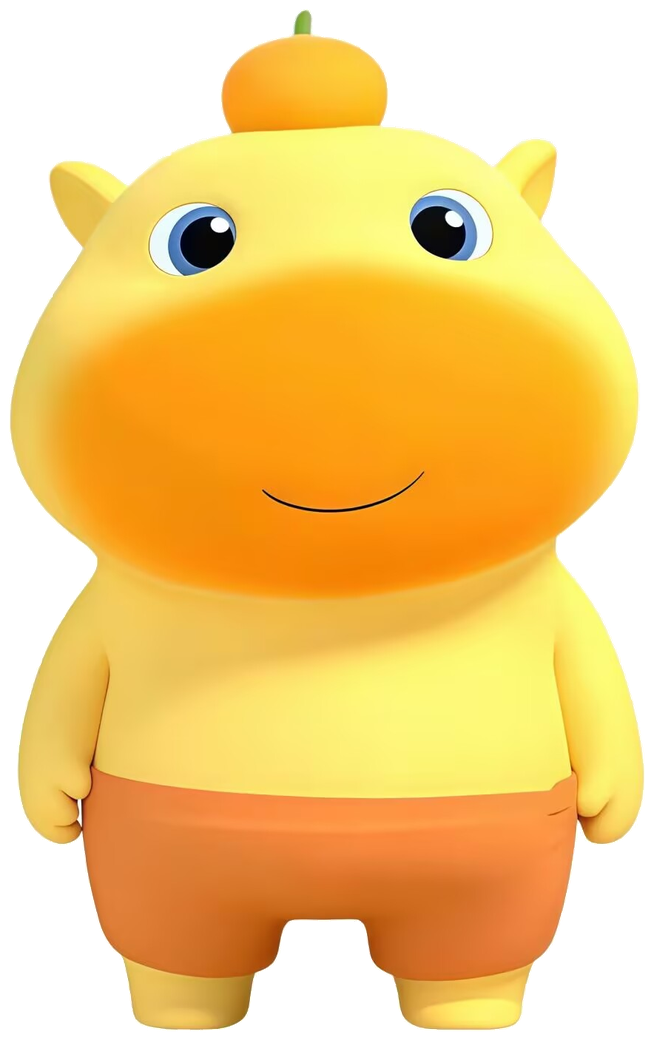
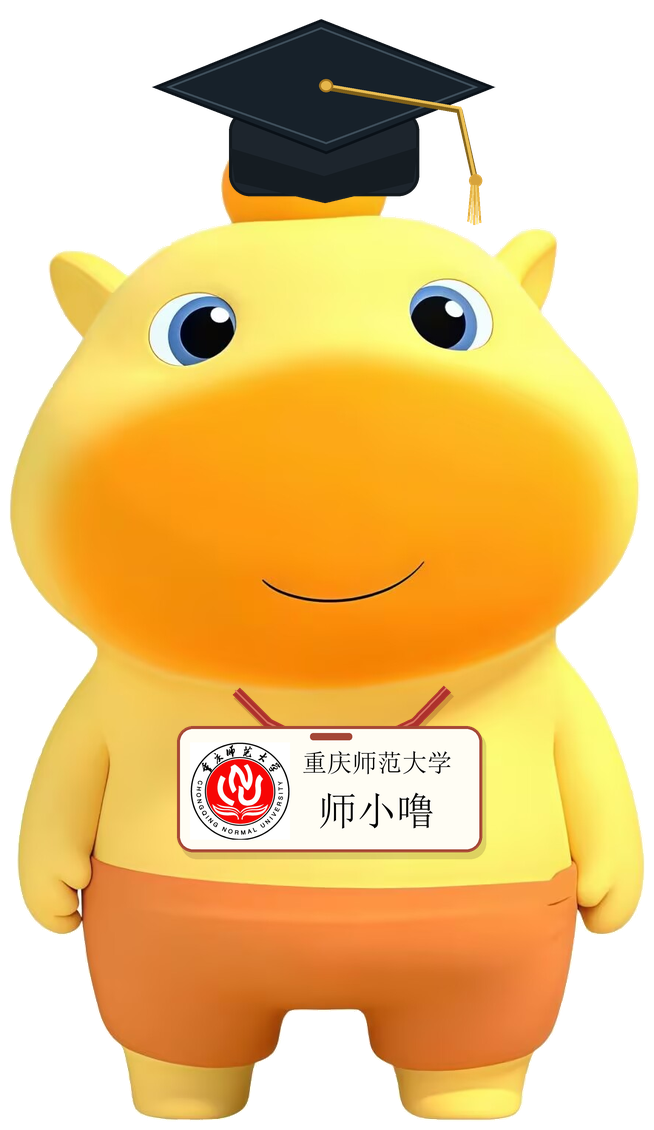
Give Shi Xiaolu a university badge doctoral cap and deeper voice

diff --git a/public/lulu.js b/public/lulu.js
@@ -1,22 +1,22 @@
 const SECTIONS=['overview','learn','speak','write','path','memory'];
 const LOCALES={zh:'zh-CN',en:'en-US',es:'es-ES',fr:'fr-FR',de:'de-DE',ja:'ja-JP',ko:'ko-KR'};
 const COPY={
- zh:{name:'噜噜',open:'找噜噜帮忙',close:'收起噜噜',title:'噜噜陪你学中文',hello:'你好，我是噜噜！想了解哪个功能，或和我聊聊你的学习？',sections:['学习首页','视频课堂','口语练习','互动写作','学习计划','学习记忆'],intro:'介绍当前功能',tour:'带我参观',previous:'上一站',next:'下一站',finish:'结束参观',send:'发送',placeholder:'问问噜噜，或试着写一句中文…',input:'和噜噜说点什么',thinking:'噜噜正在准备回答…',voice:'朗读回答',voiceNote:'卡通音色 · 使用设备语音',play:'再听一遍',stop:'停止朗读',mic:'用语音输入',listening:'正在听，请说话…',micUnavailable:'当前浏览器暂不支持语音输入，请直接打字。',micError:'没有听清或未获得麦克风权限，请重试或打字。',noVoice:'当前设备没有此语言的语音，仍可阅读文字。',speechError:'朗读暂未完成，可再次点击播放。',error:'噜噜暂时没有连上伴学服务，请稍后重试。',retry:'重试',languageChanged:'语言已切换，可以重新介绍或继续聊天。',viewChanged:'想了解这个页面？点击“介绍当前功能”。',you:'你',actions:'接下来可以',current:'当前功能',tourStep:'参观进度',empty:'先写点什么，再发给噜噜。'},
- en:{name:'Lulu',open:'Ask Lulu',close:'Minimize Lulu',title:'Learn Chinese with Lulu',hello:'Hi, I’m Lulu! Which feature would you like to explore, or what are you learning?',sections:['Overview','Video lessons','Speaking studio','Writing workshop','Learning plan','Learning memory'],intro:'Explain this feature',tour:'Show me around',previous:'Previous',next:'Next stop',finish:'Finish tour',send:'Send',placeholder:'Ask Lulu, or try a sentence in Chinese…',input:'Talk with Lulu',thinking:'Lulu is preparing a reply…',voice:'Read replies aloud',voiceNote:'Cartoon voice · device speech',play:'Listen again',stop:'Stop reading',mic:'Speak your message',listening:'Listening…',micUnavailable:'Voice input is unavailable in this browser. Please type your message.',micError:'No clear speech or microphone permission. Try again or type.',noVoice:'This device has no voice for this language. You can still read the text.',speechError:'Playback could not finish. Try listening again.',error:'Lulu could not reach the learning service. Please try again shortly.',retry:'Try again',languageChanged:'Language changed. Ask for a new introduction or continue chatting.',viewChanged:'Want to explore this page? Choose “Explain this feature”.',you:'You',actions:'You can try',current:'Current feature',tourStep:'Tour progress',empty:'Write a message for Lulu first.'},
- es:{name:'Lulu',open:'Pregúntale a Lulu',close:'Minimizar a Lulu',title:'Aprende chino con Lulu',hello:'¡Hola, soy Lulu! ¿Qué función quieres conocer o qué estás aprendiendo?',sections:['Inicio','Clases en vídeo','Práctica oral','Taller de escritura','Plan de aprendizaje','Memoria de aprendizaje'],intro:'Explicar esta función',tour:'Mostrarme la web',previous:'Anterior',next:'Siguiente parada',finish:'Terminar visita',send:'Enviar',placeholder:'Pregunta a Lulu o escribe una frase en chino…',input:'Habla con Lulu',thinking:'Lulu está preparando una respuesta…',voice:'Leer las respuestas',voiceNote:'Voz de dibujo animado · voz del dispositivo',play:'Escuchar otra vez',stop:'Detener lectura',mic:'Dictar un mensaje',listening:'Escuchando…',micUnavailable:'Este navegador no admite dictado. Escribe tu mensaje.',micError:'No se oyó con claridad o falta permiso. Inténtalo otra vez o escribe.',noVoice:'Este dispositivo no tiene una voz para este idioma. Puedes leer el texto.',speechError:'La lectura no pudo terminar. Intenta escuchar otra vez.',error:'Lulu no pudo conectar con el servicio. Inténtalo de nuevo en unos instantes.',retry:'Reintentar',languageChanged:'Idioma cambiado. Pide otra introducción o sigue conversando.',viewChanged:'Para conocer esta página, elige «Explicar esta función».',you:'Tú',actions:'Puedes probar',current:'Función actual',tourStep:'Progreso de la visita',empty:'Primero escribe un mensaje para Lulu.'},
- fr:{name:'Lulu',open:'Demander à Lulu',close:'Réduire Lulu',title:'Apprenez le chinois avec Lulu',hello:'Bonjour, je suis Lulu ! Quelle fonction souhaitez-vous découvrir, ou que voulez-vous apprendre ?',sections:['Accueil','Cours vidéo','Pratique orale','Atelier d’écriture','Plan d’apprentissage','Mémoire d’apprentissage'],intro:'Présenter cette fonction',tour:'Me faire visiter',previous:'Précédent',next:'Étape suivante',finish:'Terminer la visite',send:'Envoyer',placeholder:'Posez une question à Lulu ou écrivez une phrase en chinois…',input:'Parler avec Lulu',thinking:'Lulu prépare une réponse…',voice:'Lire les réponses',voiceNote:'Voix de dessin animé · voix de l’appareil',play:'Réécouter',stop:'Arrêter la lecture',mic:'Dicter un message',listening:'À l’écoute…',micUnavailable:'La saisie vocale est indisponible ici. Écrivez votre message.',micError:'Parole peu claire ou autorisation refusée. Réessayez ou écrivez.',noVoice:'Cet appareil ne possède pas de voix pour cette langue. Le texte reste disponible.',speechError:'La lecture n’a pas pu se terminer. Réessayez.',error:'Lulu ne peut pas joindre le service. Réessayez dans un instant.',retry:'Réessayer',languageChanged:'Langue modifiée. Demandez une nouvelle présentation ou poursuivez la conversation.',viewChanged:'Pour découvrir cette page, choisissez « Présenter cette fonction ».',you:'Vous',actions:'Vous pouvez essayer',current:'Fonction actuelle',tourStep:'Progression de la visite',empty:'Écrivez d’abord un message à Lulu.'},
- de:{name:'Lulu',open:'Lulu fragen',close:'Lulu minimieren',title:'Mit Lulu Chinesisch lernen',hello:'Hallo, ich bin Lulu! Welche Funktion möchtest du entdecken oder was möchtest du lernen?',sections:['Übersicht','Videolektionen','Sprechübungen','Schreibwerkstatt','Lernplan','Lerngedächtnis'],intro:'Diese Funktion erklären',tour:'Rundgang starten',previous:'Zurück',next:'Nächste Station',finish:'Rundgang beenden',send:'Senden',placeholder:'Frag Lulu oder schreibe einen Satz auf Chinesisch…',input:'Mit Lulu sprechen',thinking:'Lulu bereitet eine Antwort vor…',voice:'Antworten vorlesen',voiceNote:'Comicstimme · Gerätestimme',play:'Noch einmal hören',stop:'Vorlesen stoppen',mic:'Nachricht diktieren',listening:'Ich höre zu…',micUnavailable:'Spracheingabe ist hier nicht verfügbar. Bitte tippe deine Nachricht.',micError:'Nicht deutlich verstanden oder kein Mikrofonzugriff. Erneut versuchen oder tippen.',noVoice:'Dieses Gerät hat keine Stimme für diese Sprache. Der Text bleibt lesbar.',speechError:'Die Wiedergabe wurde unterbrochen. Bitte erneut starten.',error:'Lulu erreicht den Lerndienst gerade nicht. Bitte gleich erneut versuchen.',retry:'Erneut versuchen',languageChanged:'Sprache geändert. Bitte erneut vorstellen lassen oder weiterfragen.',viewChanged:'Wähle „Diese Funktion erklären“, um diese Seite kennenzulernen.',you:'Du',actions:'Das kannst du versuchen',current:'Aktuelle Funktion',tourStep:'Fortschritt',empty:'Schreibe zuerst eine Nachricht an Lulu.'},
- ja:{name:'ルル',open:'ルルに聞く',close:'ルルを閉じる',title:'ルルと中国語を学ぼう',hello:'こんにちは、ルルです！どの機能を知りたいですか？学習の相談もできます。',sections:['学習ホーム','動画レッスン','発音・会話練習','作文ワークショップ','学習計画','学習メモリー'],intro:'この機能を紹介',tour:'サイトを案内して',previous:'前へ',next:'次の案内へ',finish:'案内を終える',send:'送信',placeholder:'ルルに質問するか、中国語で一文書いてみましょう…',input:'ルルに話す',thinking:'ルルが回答を準備しています…',voice:'回答を読み上げる',voiceNote:'アニメ風の音色 · 端末の音声',play:'もう一度聞く',stop:'読み上げを停止',mic:'音声で入力',listening:'聞いています…',micUnavailable:'このブラウザーでは音声入力が使えません。文字で入力してください。',micError:'音声が不明瞭か、マイクの許可がありません。再試行するか入力してください。',noVoice:'この端末には選択言語の音声がありません。文字は読めます。',speechError:'読み上げが完了しませんでした。もう一度お試しください。',error:'学習サービスにつながりません。少し待って再試行してください。',retry:'再試行',languageChanged:'言語を切り替えました。もう一度紹介を頼むか、会話を続けてください。',viewChanged:'このページを知りたいときは「この機能を紹介」を選んでください。',you:'あなた',actions:'次にできること',current:'現在の機能',tourStep:'案内の進み具合',empty:'まずルルに送る内容を書いてください。'},
- ko:{name:'루루',open:'루루에게 물어보기',close:'루루 접기',title:'루루와 함께 중국어 배우기',hello:'안녕, 나는 루루예요! 어떤 기능을 살펴볼까요? 학습에 관해서도 물어보세요.',sections:['학습 홈','동영상 수업','말하기 연습','쓰기 연습','학습 계획','학습 기억'],intro:'이 기능 소개',tour:'둘러보기',previous:'이전',next:'다음 안내',finish:'안내 마치기',send:'보내기',placeholder:'루루에게 물어보거나 중국어 문장을 써 보세요…',input:'루루와 대화하기',thinking:'루루가 답변을 준비하고 있어요…',voice:'답변 읽어 주기',voiceNote:'만화 캐릭터 음색 · 기기 음성',play:'다시 듣기',stop:'읽기 중지',mic:'음성으로 입력',listening:'듣고 있어요…',micUnavailable:'이 브라우저에서는 음성 입력을 사용할 수 없어요. 직접 입력해 주세요.',micError:'잘 듣지 못했거나 마이크 권한이 없어요. 다시 시도하거나 입력해 주세요.',noVoice:'기기에 이 언어의 음성이 없어요. 글은 계속 읽을 수 있어요.',speechError:'읽기를 마치지 못했어요. 다시 재생해 주세요.',error:'학습 서비스에 연결하지 못했어요. 잠시 후 다시 시도해 주세요.',retry:'다시 시도',languageChanged:'언어를 바꿨어요. 소개를 다시 요청하거나 대화를 이어 가세요.',viewChanged:'이 페이지를 알아보려면 ‘이 기능 소개’를 눌러 주세요.',you:'나',actions:'다음으로 할 수 있는 일',current:'현재 기능',tourStep:'안내 진행',empty:'먼저 루루에게 보낼 내용을 써 주세요.'},
+ zh:{name:'师小噜',open:'找师小噜帮忙',close:'收起师小噜',title:'师小噜陪你学中文',hello:'你好，我是师小噜！想了解哪个功能，或和我聊聊你的学习？',sections:['学习首页','视频课堂','口语练习','互动写作','学习计划','学习记忆'],intro:'介绍当前功能',tour:'带我参观',previous:'上一站',next:'下一站',finish:'结束参观',send:'发送',placeholder:'问问师小噜，或试着写一句中文…',input:'和师小噜说点什么',thinking:'师小噜正在准备回答…',voice:'朗读回答',voiceNote:'卡通音色 · 使用设备语音',play:'再听一遍',stop:'停止朗读',mic:'用语音输入',listening:'正在听，请说话…',micUnavailable:'当前浏览器暂不支持语音输入，请直接打字。',micError:'没有听清或未获得麦克风权限，请重试或打字。',noVoice:'当前设备没有此语言的语音，仍可阅读文字。',speechError:'朗读暂未完成，可再次点击播放。',error:'师小噜暂时没有连上伴学服务，请稍后重试。',retry:'重试',languageChanged:'语言已切换，可以重新介绍或继续聊天。',viewChanged:'想了解这个页面？点击“介绍当前功能”。',you:'你',actions:'接下来可以',current:'当前功能',tourStep:'参观进度',empty:'先写点什么，再发给师小噜。'},
+ en:{name:'Shi Xiaolu',open:'Ask Shi Xiaolu',close:'Minimize Shi Xiaolu',title:'Learn Chinese with Shi Xiaolu',hello:'Hi, I’m Shi Xiaolu! Which feature would you like to explore, or what are you learning?',sections:['Overview','Video lessons','Speaking studio','Writing workshop','Learning plan','Learning memory'],intro:'Explain this feature',tour:'Show me around',previous:'Previous',next:'Next stop',finish:'Finish tour',send:'Send',placeholder:'Ask Shi Xiaolu, or try a sentence in Chinese…',input:'Talk with Shi Xiaolu',thinking:'Shi Xiaolu is preparing a reply…',voice:'Read replies aloud',voiceNote:'Cartoon voice · device speech',play:'Listen again',stop:'Stop reading',mic:'Speak your message',listening:'Listening…',micUnavailable:'Voice input is unavailable in this browser. Please type your message.',micError:'No clear speech or microphone permission. Try again or type.',noVoice:'This device has no voice for this language. You can still read the text.',speechError:'Playback could not finish. Try listening again.',error:'Shi Xiaolu could not reach the learning service. Please try again shortly.',retry:'Try again',languageChanged:'Language changed. Ask for a new introduction or continue chatting.',viewChanged:'Want to explore this page? Choose “Explain this feature”.',you:'You',actions:'You can try',current:'Current feature',tourStep:'Tour progress',empty:'Write a message for Shi Xiaolu first.'},
+ es:{name:'Shi Xiaolu',open:'Pregúntale a Shi Xiaolu',close:'Minimizar a Shi Xiaolu',title:'Aprende chino con Shi Xiaolu',hello:'¡Hola, soy Shi Xiaolu! ¿Qué función quieres conocer o qué estás aprendiendo?',sections:['Inicio','Clases en vídeo','Práctica oral','Taller de escritura','Plan de aprendizaje','Memoria de aprendizaje'],intro:'Explicar esta función',tour:'Mostrarme la web',previous:'Anterior',next:'Siguiente parada',finish:'Terminar visita',send:'Enviar',placeholder:'Pregunta a Shi Xiaolu o escribe una frase en chino…',input:'Habla con Shi Xiaolu',thinking:'Shi Xiaolu está preparando una respuesta…',voice:'Leer las respuestas',voiceNote:'Voz de dibujo animado · voz del dispositivo',play:'Escuchar otra vez',stop:'Detener lectura',mic:'Dictar un mensaje',listening:'Escuchando…',micUnavailable:'Este navegador no admite dictado. Escribe tu mensaje.',micError:'No se oyó con claridad o falta permiso. Inténtalo otra vez o escribe.',noVoice:'Este dispositivo no tiene una voz para este idioma. Puedes leer el texto.',speechError:'La lectura no pudo terminar. Intenta escuchar otra vez.',error:'Shi Xiaolu no pudo conectar con el servicio. Inténtalo de nuevo en unos instantes.',retry:'Reintentar',languageChanged:'Idioma cambiado. Pide otra introducción o sigue conversando.',viewChanged:'Para conocer esta página, elige «Explicar esta función».',you:'Tú',actions:'Puedes probar',current:'Función actual',tourStep:'Progreso de la visita',empty:'Primero escribe un mensaje para Shi Xiaolu.'},
+ fr:{name:'Shi Xiaolu',open:'Demander à Shi Xiaolu',close:'Réduire Shi Xiaolu',title:'Apprenez le chinois avec Shi Xiaolu',hello:'Bonjour, je suis Shi Xiaolu ! Quelle fonction souhaitez-vous découvrir, ou que voulez-vous apprendre ?',sections:['Accueil','Cours vidéo','Pratique orale','Atelier d’écriture','Plan d’apprentissage','Mémoire d’apprentissage'],intro:'Présenter cette fonction',tour:'Me faire visiter',previous:'Précédent',next:'Étape suivante',finish:'Terminer la visite',send:'Envoyer',placeholder:'Posez une question à Shi Xiaolu ou écrivez une phrase en chinois…',input:'Parler avec Shi Xiaolu',thinking:'Shi Xiaolu prépare une réponse…',voice:'Lire les réponses',voiceNote:'Voix de dessin animé · voix de l’appareil',play:'Réécouter',stop:'Arrêter la lecture',mic:'Dicter un message',listening:'À l’écoute…',micUnavailable:'La saisie vocale est indisponible ici. Écrivez votre message.',micError:'Parole peu claire ou autorisation refusée. Réessayez ou écrivez.',noVoice:'Cet appareil ne possède pas de voix pour cette langue. Le texte reste disponible.',speechError:'La lecture n’a pas pu se terminer. Réessayez.',error:'Shi Xiaolu ne peut pas joindre le service. Réessayez dans un instant.',retry:'Réessayer',languageChanged:'Langue modifiée. Demandez une nouvelle présentation ou poursuivez la conversation.',viewChanged:'Pour découvrir cette page, choisissez « Présenter cette fonction ».',you:'Vous',actions:'Vous pouvez essayer',current:'Fonction actuelle',tourStep:'Progression de la visite',empty:'Écrivez d’abord un message à Shi Xiaolu.'},
+ de:{name:'Shi Xiaolu',open:'Shi Xiaolu fragen',close:'Shi Xiaolu minimieren',title:'Mit Shi Xiaolu Chinesisch lernen',hello:'Hallo, ich bin Shi Xiaolu! Welche Funktion möchtest du entdecken oder was möchtest du lernen?',sections:['Übersicht','Videolektionen','Sprechübungen','Schreibwerkstatt','Lernplan','Lerngedächtnis'],intro:'Diese Funktion erklären',tour:'Rundgang starten',previous:'Zurück',next:'Nächste Station',finish:'Rundgang beenden',send:'Senden',placeholder:'Frag Shi Xiaolu oder schreibe einen Satz auf Chinesisch…',input:'Mit Shi Xiaolu sprechen',thinking:'Shi Xiaolu bereitet eine Antwort vor…',voice:'Antworten vorlesen',voiceNote:'Comicstimme · Gerätestimme',play:'Noch einmal hören',stop:'Vorlesen stoppen',mic:'Nachricht diktieren',listening:'Ich höre zu…',micUnavailable:'Spracheingabe ist hier nicht verfügbar. Bitte tippe deine Nachricht.',micError:'Nicht deutlich verstanden oder kein Mikrofonzugriff. Erneut versuchen oder tippen.',noVoice:'Dieses Gerät hat keine Stimme für diese Sprache. Der Text bleibt lesbar.',speechError:'Die Wiedergabe wurde unterbrochen. Bitte erneut starten.',error:'Shi Xiaolu erreicht den Lerndienst gerade nicht. Bitte gleich erneut versuchen.',retry:'Erneut versuchen',languageChanged:'Sprache geändert. Bitte erneut vorstellen lassen oder weiterfragen.',viewChanged:'Wähle „Diese Funktion erklären“, um diese Seite kennenzulernen.',you:'Du',actions:'Das kannst du versuchen',current:'Aktuelle Funktion',tourStep:'Fortschritt',empty:'Schreibe zuerst eine Nachricht an Shi Xiaolu.'},
+ ja:{name:'師小ルー',open:'師小ルーに聞く',close:'師小ルーを閉じる',title:'師小ルーと中国語を学ぼう',hello:'こんにちは、師小ルーです！どの機能を知りたいですか？学習の相談もできます。',sections:['学習ホーム','動画レッスン','発音・会話練習','作文ワークショップ','学習計画','学習メモリー'],intro:'この機能を紹介',tour:'サイトを案内して',previous:'前へ',next:'次の案内へ',finish:'案内を終える',send:'送信',placeholder:'師小ルーに質問するか、中国語で一文書いてみましょう…',input:'師小ルーに話す',thinking:'師小ルーが回答を準備しています…',voice:'回答を読み上げる',voiceNote:'アニメ風の音色 · 端末の音声',play:'もう一度聞く',stop:'読み上げを停止',mic:'音声で入力',listening:'聞いています…',micUnavailable:'このブラウザーでは音声入力が使えません。文字で入力してください。',micError:'音声が不明瞭か、マイクの許可がありません。再試行するか入力してください。',noVoice:'この端末には選択言語の音声がありません。文字は読めます。',speechError:'読み上げが完了しませんでした。もう一度お試しください。',error:'学習サービスにつながりません。少し待って再試行してください。',retry:'再試行',languageChanged:'言語を切り替えました。もう一度紹介を頼むか、会話を続けてください。',viewChanged:'このページを知りたいときは「この機能を紹介」を選んでください。',you:'あなた',actions:'次にできること',current:'現在の機能',tourStep:'案内の進み具合',empty:'まず師小ルーに送る内容を書いてください。'},
+ ko:{name:'스샤오루',open:'스샤오루에게 물어보기',close:'스샤오루 접기',title:'스샤오루와 함께 중국어 배우기',hello:'안녕, 나는 스샤오루예요! 어떤 기능을 살펴볼까요? 학습에 관해서도 물어보세요.',sections:['학습 홈','동영상 수업','말하기 연습','쓰기 연습','학습 계획','학습 기억'],intro:'이 기능 소개',tour:'둘러보기',previous:'이전',next:'다음 안내',finish:'안내 마치기',send:'보내기',placeholder:'스샤오루에게 물어보거나 중국어 문장을 써 보세요…',input:'스샤오루와 대화하기',thinking:'스샤오루가 답변을 준비하고 있어요…',voice:'답변 읽어 주기',voiceNote:'만화 캐릭터 음색 · 기기 음성',play:'다시 듣기',stop:'읽기 중지',mic:'음성으로 입력',listening:'듣고 있어요…',micUnavailable:'이 브라우저에서는 음성 입력을 사용할 수 없어요. 직접 입력해 주세요.',micError:'잘 듣지 못했거나 마이크 권한이 없어요. 다시 시도하거나 입력해 주세요.',noVoice:'기기에 이 언어의 음성이 없어요. 글은 계속 읽을 수 있어요.',speechError:'읽기를 마치지 못했어요. 다시 재생해 주세요.',error:'학습 서비스에 연결하지 못했어요. 잠시 후 다시 시도해 주세요.',retry:'다시 시도',languageChanged:'언어를 바꿨어요. 소개를 다시 요청하거나 대화를 이어 가세요.',viewChanged:'이 페이지를 알아보려면 ‘이 기능 소개’를 눌러 주세요.',you:'나',actions:'다음으로 할 수 있는 일',current:'현재 기능',tourStep:'안내 진행',empty:'먼저 스샤오루에게 보낼 내용을 써 주세요.'},
 };
 const VOICE_COPY={
- zh:{voiceNote:'参考音色 · 合成语音',deviceVoiceNote:'卡通音色 · 使用设备语音',voiceLoading:'正在准备噜噜的声音…',voiceUnavailable:'噜噜的语音服务暂时不可用。可以重试，或选择设备卡通音色。',voiceBlocked:'语音已准备好，请点击“再听一遍”播放。',deviceVoice:'使用设备卡通音色'},
- en:{voiceNote:'Reference voice · generated speech',deviceVoiceNote:'Cartoon voice · device speech',voiceLoading:'Preparing Lulu’s voice…',voiceUnavailable:'Lulu’s voice service is unavailable. Retry or choose the device cartoon voice.',voiceBlocked:'The voice is ready. Choose “Listen again” to play it.',deviceVoice:'Use device cartoon voice'},
- es:{voiceNote:'Voz de referencia · audio generado',deviceVoiceNote:'Voz de dibujo animado · voz del dispositivo',voiceLoading:'Preparando la voz de Lulu…',voiceUnavailable:'La voz de Lulu no está disponible. Reintenta o elige la voz de dibujo animado del dispositivo.',voiceBlocked:'El audio está listo. Pulsa «Escuchar otra vez» para reproducirlo.',deviceVoice:'Usar voz de dibujo animado del dispositivo'},
- fr:{voiceNote:'Voix de référence · parole générée',deviceVoiceNote:'Voix de dessin animé · voix de l’appareil',voiceLoading:'Préparation de la voix de Lulu…',voiceUnavailable:'La voix de Lulu est indisponible. Réessayez ou choisissez la voix de dessin animé de l’appareil.',voiceBlocked:'La voix est prête. Choisissez « Réécouter » pour la lancer.',deviceVoice:'Utiliser la voix de dessin animé de l’appareil'},
- de:{voiceNote:'Referenzstimme · erzeugte Sprache',deviceVoiceNote:'Comicstimme · Gerätestimme',voiceLoading:'Lulus Stimme wird vorbereitet…',voiceUnavailable:'Lulus Sprachdienst ist nicht verfügbar. Erneut versuchen oder die Comicstimme des Geräts wählen.',voiceBlocked:'Die Aufnahme ist bereit. Wähle „Noch einmal hören“, um sie abzuspielen.',deviceVoice:'Comicstimme des Geräts verwenden'},
- ja:{voiceNote:'参考音声の声質 · 合成音声',deviceVoiceNote:'アニメ風の音色 · 端末の音声',voiceLoading:'ルルの音声を準備しています…',voiceUnavailable:'ルルの音声サービスが利用できません。再試行するか、端末のアニメ風音声を選んでください。',voiceBlocked:'音声の準備ができました。「もう一度聞く」を押してください。',deviceVoice:'端末のアニメ風音声を使う'},
- ko:{voiceNote:'참고 음색 · 합성 음성',deviceVoiceNote:'만화 캐릭터 음색 · 기기 음성',voiceLoading:'루루의 목소리를 준비하고 있어요…',voiceUnavailable:'루루의 음성 서비스를 사용할 수 없어요. 다시 시도하거나 기기의 만화 음색을 선택해 주세요.',voiceBlocked:'음성이 준비되었어요. ‘다시 듣기’를 눌러 주세요.',deviceVoice:'기기의 만화 음색 사용'},
+ zh:{voiceNote:'参考音色 · 合成语音',deviceVoiceNote:'卡通音色 · 使用设备语音',voiceLoading:'正在准备师小噜的声音…',voiceUnavailable:'师小噜的语音服务暂时不可用。可以重试，或选择设备卡通音色。',voiceBlocked:'语音已准备好，请点击“再听一遍”播放。',deviceVoice:'使用设备卡通音色'},
+ en:{voiceNote:'Reference voice · generated speech',deviceVoiceNote:'Cartoon voice · device speech',voiceLoading:'Preparing Shi Xiaolu’s voice…',voiceUnavailable:'Shi Xiaolu’s voice service is unavailable. Retry or choose the device cartoon voice.',voiceBlocked:'The voice is ready. Choose “Listen again” to play it.',deviceVoice:'Use device cartoon voice'},
+ es:{voiceNote:'Voz de referencia · audio generado',deviceVoiceNote:'Voz de dibujo animado · voz del dispositivo',voiceLoading:'Preparando la voz de Shi Xiaolu…',voiceUnavailable:'La voz de Shi Xiaolu no está disponible. Reintenta o elige la voz de dibujo animado del dispositivo.',voiceBlocked:'El audio está listo. Pulsa «Escuchar otra vez» para reproducirlo.',deviceVoice:'Usar voz de dibujo animado del dispositivo'},
+ fr:{voiceNote:'Voix de référence · parole générée',deviceVoiceNote:'Voix de dessin animé · voix de l’appareil',voiceLoading:'Préparation de la voix de Shi Xiaolu…',voiceUnavailable:'La voix de Shi Xiaolu est indisponible. Réessayez ou choisissez la voix de dessin animé de l’appareil.',voiceBlocked:'La voix est prête. Choisissez « Réécouter » pour la lancer.',deviceVoice:'Utiliser la voix de dessin animé de l’appareil'},
+ de:{voiceNote:'Referenzstimme · erzeugte Sprache',deviceVoiceNote:'Comicstimme · Gerätestimme',voiceLoading:'Shi Xiaolus Stimme wird vorbereitet…',voiceUnavailable:'Shi Xiaolus Sprachdienst ist nicht verfügbar. Erneut versuchen oder die Comicstimme des Geräts wählen.',voiceBlocked:'Die Aufnahme ist bereit. Wähle „Noch einmal hören“, um sie abzuspielen.',deviceVoice:'Comicstimme des Geräts verwenden'},
+ ja:{voiceNote:'参考音声の声質 · 合成音声',deviceVoiceNote:'アニメ風の音色 · 端末の音声',voiceLoading:'師小ルーの音声を準備しています…',voiceUnavailable:'師小ルーの音声サービスが利用できません。再試行するか、端末のアニメ風音声を選んでください。',voiceBlocked:'音声の準備ができました。「もう一度聞く」を押してください。',deviceVoice:'端末のアニメ風音声を使う'},
+ ko:{voiceNote:'참고 음색 · 합성 음성',deviceVoiceNote:'만화 캐릭터 음색 · 기기 음성',voiceLoading:'스샤오루의 목소리를 준비하고 있어요…',voiceUnavailable:'스샤오루의 음성 서비스를 사용할 수 없어요. 다시 시도하거나 기기의 만화 음색을 선택해 주세요.',voiceBlocked:'음성이 준비되었어요. ‘다시 듣기’를 눌러 주세요.',deviceVoice:'기기의 만화 음색 사용'},
 };
 for(const code of Object.keys(COPY))Object.assign(COPY[code],VOICE_COPY[code]);
 export const normalizeGuideSection=value=>SECTIONS.includes(value)?value:'overview';
@@ -71,7 +71,7 @@ export function createLuluConversation({request,getLanguage,getView,onChange=()=
 }
 
 export function initializeLulu({request,requestVoice=async()=>{throw Error('Voice service is unavailable');},getLanguage,getView,navigate}){
- const root=document.createElement('aside');root.className='lulu-guide';root.dataset.noTranslate='';root.setAttribute('aria-label','Lulu');
+ const root=document.createElement('aside');root.className='lulu-guide';root.dataset.noTranslate='';root.setAttribute('aria-label','Shi Xiaolu');
  root.innerHTML=`<button class="lulu-launcher" type="button" aria-expanded="false" aria-controls="lulu-panel"><span class="lulu-character"><img src="${new URL('./lulu-avatar.png',import.meta.url).href}" alt="" draggable="false"><span class="lulu-mouth" aria-hidden="true"></span></span><span class="lulu-launcher-label"></span></button><section class="lulu-panel" id="lulu-panel" role="dialog" aria-labelledby="lulu-title" hidden><header class="lulu-panel-header"><div><h2 id="lulu-title"></h2><p class="lulu-context"></p></div><button type="button" class="lulu-close">×</button></header><div class="lulu-panel-body"><label class="lulu-section-label"><span></span><select class="lulu-section"></select></label><div class="lulu-guide-buttons"><button type="button" class="lulu-intro"></button><button type="button" class="lulu-tour"></button></div><div class="lulu-tour-controls" hidden><span class="lulu-tour-step"></span><div><button type="button" class="lulu-previous"></button><button type="button" class="lulu-next"></button><button type="button" class="lulu-tour-finish"></button></div></div><div class="lulu-reply" aria-live="polite" aria-atomic="true"></div><div class="lulu-actions"></div><div class="lulu-error" role="alert" hidden><span></span><button class="lulu-retry" type="button"></button></div><div class="lulu-audio"><label><input class="lulu-audio-toggle" type="checkbox" checked><span></span></label><div><button class="lulu-replay" type="button"></button><button class="lulu-stop" type="button"></button></div><small class="lulu-voice-note"></small><p class="lulu-audio-status" role="status"></p></div><form class="lulu-chat"><label class="lulu-input-label" for="lulu-input"></label><textarea id="lulu-input" rows="2" maxlength="2000"></textarea><div><button class="lulu-mic" type="button"></button><button class="lulu-send" type="submit"></button></div><p class="lulu-input-status" role="status"></p></form></div></section>`;
  document.body.append(root);
  const find=selector=>root.querySelector(selector),panel=find('.lulu-panel'),launcher=find('.lulu-launcher'),input=find('#lulu-input'),reply=find('.lulu-reply');

diff --git a/public/lulu.css b/public/lulu.css
@@ -1,6 +1,6 @@
 /* Lulu is separate from the learning workspace, preserving unfinished exercises. */
 .lulu-guide,.lulu-guide *{box-sizing:border-box;color:#000;-webkit-text-fill-color:#000;font-family:HanziStudyText,"Microsoft YaHei","SimSun",sans-serif}
-.lulu-guide{position:fixed;right:22px;bottom:18px;z-index:48;font-size:18px;line-height:1.65;--lulu-mouth-x:52.6%;--lulu-mouth-y:47.7%}
+.lulu-guide{position:fixed;right:22px;bottom:18px;z-index:48;font-size:18px;line-height:1.65;--lulu-mouth-x:52.6%;--lulu-mouth-y:51.86%}
 .lulu-guide button,.lulu-guide textarea,.lulu-guide select{font:inherit;line-height:1.5}
 .lulu-guide button{border:1px solid #cbd6bf;background:#fffef7;padding:8px 12px;border-radius:9px;min-height:40px;cursor:pointer;transition:background .15s}
 .lulu-guide button:hover:not(:disabled){background:#edf3e4}.lulu-guide button:disabled{opacity:.6;cursor:wait}
@@ -11,7 +11,7 @@
 .lulu-launcher-label{display:block;align-self:flex-end;padding:4px 12px;background:#fff7d7;border:1px solid #e5c36e;border-radius:16px;margin:0 0 10px -9px;font-weight:600;font-size:17px}
 .lulu-mouth{position:absolute;left:var(--lulu-mouth-x);top:var(--lulu-mouth-y);width:21%;height:3%;transform:translate(-50%,-50%);background:#5b2418;border-radius:48%;opacity:0;box-shadow:0 -1px 0 2px #ffae0a;pointer-events:none}
 .lulu-guide.is-speaking .lulu-mouth{opacity:1;animation:lulu-talk .24s ease-in-out infinite alternate}.lulu-guide.is-speaking .lulu-character{animation:lulu-chat-bob .75s ease-in-out infinite alternate}
-.lulu-panel{position:absolute;bottom:130px;right:0;width:440px;max-height:min(740px,calc(100dvh - 170px));display:flex;flex-direction:column;border:1px solid #d4c795;border-radius:18px;background:#fffef8;box-shadow:0 14px 50px #293d2930;overflow:hidden}
+.lulu-panel{position:absolute;bottom:170px;right:0;width:440px;max-height:min(740px,calc(100dvh - 210px));display:flex;flex-direction:column;border:1px solid #d4c795;border-radius:18px;background:#fffef8;box-shadow:0 14px 50px #293d2930;overflow:hidden}
 .lulu-panel::after{content:"";position:fixed;pointer-events:none}.lulu-panel[hidden]{display:none!important}
 .lulu-panel-header{display:flex;align-items:flex-start;justify-content:space-between;gap:12px;padding:18px 20px 14px;background:#fff1c8;border-bottom:1px solid #e8d9ac}
 .lulu-panel-header h2{font-size:24px;font-weight:600;line-height:1.45;letter-spacing:0;margin:0}
@@ -31,6 +31,6 @@
 @keyframes lulu-chat-bob{from{transform:translateY(0) rotate(-1deg)}to{transform:translateY(-5px) rotate(1deg)}}
 @keyframes lulu-talk{from{height:1.7%;width:17%}to{height:4%;width:21%}}
 @keyframes lulu-wait{0%,100%{background-position:0 50%}50%{background-position:100% 50%}}
-@media(max-height:700px){.lulu-panel{bottom:95px;max-height:calc(100dvh - 125px)}.lulu-character{width:68px}.lulu-launcher-label{font-size:16px}.lulu-panel-header{padding:12px 18px}.lulu-panel-body{padding:12px 18px}.lulu-reply{min-height:70px}}
-@media(max-width:760px){.lulu-guide{right:12px;bottom:12px}.lulu-panel{width:min(440px,calc(100vw - 24px));max-height:calc(100dvh - 140px)}.lulu-character{width:75px}}
+@media(max-height:700px){.lulu-panel{bottom:130px;max-height:calc(100dvh - 160px)}.lulu-character{width:68px}.lulu-launcher-label{font-size:16px}.lulu-panel-header{padding:12px 18px}.lulu-panel-body{padding:12px 18px}.lulu-reply{min-height:70px}}
+@media(max-width:760px){.lulu-guide{right:12px;bottom:12px}.lulu-panel{bottom:142px;width:min(440px,calc(100vw - 24px));max-height:calc(100dvh - 172px)}.lulu-character{width:75px}}
 @media(prefers-reduced-motion:reduce){.lulu-guide *{animation:none!important;transition:none!important}}

diff --git a/scripts/lulu-voice-service.py b/scripts/lulu-voice-service.py
@@ -11,9 +11,21 @@ from pathlib import Path
 
 LANGUAGES = {"zh": "Chinese", "en": "English", "es": "Spanish", "fr": "French", "de": "German", "ja": "Japanese", "ko": "Korean"}
 
+def adjust_voice_pitch(samples, rate, semitones=-2):
+    """Lower the reference timbre while keeping speech duration unchanged."""
+    import librosa
+    import numpy as np
+    shifted = librosa.effects.pitch_shift(np.asarray(samples, dtype=np.float32), sr=rate, n_steps=semitones) if semitones else np.asarray(samples, dtype=np.float32)
+    shifted = librosa.util.fix_length(shifted, size=len(samples))
+    peak = float(np.max(np.abs(shifted))) if len(shifted) else 0
+    if peak > .98:
+        shifted = shifted * (.98 / peak)
+    return shifted
+
 class VoiceEngine:
-    def __init__(self, runtime):
+    def __init__(self, runtime, pitch_semitones=-2):
         self.runtime, self.status, self.error = runtime, "loading", None
+        self.pitch_semitones = pitch_semitones
         self.lock = threading.Lock()
         self.model = self.prompt = None
 
@@ -33,10 +45,10 @@ class VoiceEngine:
             transcript = transcript_path.read_text(encoding="utf-8").strip() if transcript_path.exists() else ""
             self.prompt = self.model.create_voice_clone_prompt(ref_audio=(samples, rate), ref_text=transcript or None, x_vector_only_mode=not bool(transcript))
             self.status = "ready"
-            print("Lulu reference voice ready", flush=True)
+            print("Shi Xiaolu reference voice ready", flush=True)
         except Exception as exc:
             self.status, self.error = "error", f"{type(exc).__name__}: {exc}"
-            print(f"Lulu voice loading failed: {self.error}", flush=True)
+            print(f"Shi Xiaolu voice loading failed: {self.error}", flush=True)
 
     def synthesize(self, text, language):
         import numpy as np
@@ -64,7 +76,8 @@ class VoiceEngine:
                 waves, rate = self.model.generate_voice_clone(text=chunk, language=LANGUAGES[language], voice_clone_prompt=self.prompt, max_new_tokens=2048)
                 audio.append(waves[0])
             output = io.BytesIO()
-            sf.write(output, np.concatenate(audio), rate, format="WAV", subtype="PCM_16")
+            adjusted = adjust_voice_pitch(np.concatenate(audio), rate, self.pitch_semitones)
+            sf.write(output, adjusted, rate, format="WAV", subtype="PCM_16")
             return output.getvalue()
 
 def create_handler(engine):
@@ -94,7 +107,7 @@ def create_handler(engine):
                 return
             if self.path != "/health":
                 return self.send_json(404, {"error": "Not found"})
-            self.send_json(200, {"status": engine.status, "voice": "reference", "languages": list(LANGUAGES), "referenceConfigured": (engine.runtime / "reference.wav").is_file(), "detail": engine.error, "pid": os.getpid(), "parentPid": os.getppid()})
+            self.send_json(200, {"status": engine.status, "voice": "reference", "languages": list(LANGUAGES), "referenceConfigured": (engine.runtime / "reference.wav").is_file(), "detail": engine.error, "pitchSemitones": engine.pitch_semitones, "pid": os.getpid(), "parentPid": os.getppid()})
         def do_POST(self):
             if not self.private_request():
                 return
@@ -126,7 +139,7 @@ def create_handler(engine):
             except (BrokenPipeError, ConnectionResetError):
                 pass
             except Exception as exc:
-                print(f"Lulu synthesis failed: {type(exc).__name__}", flush=True)
+                print(f"Shi Xiaolu synthesis failed: {type(exc).__name__}", flush=True)
                 self.send_json(503, {"error": "Voice synthesis failed"})
     return Handler
 
@@ -134,11 +147,14 @@ def main():
     parser = argparse.ArgumentParser()
     parser.add_argument("--port", type=int, default=4187)
     parser.add_argument("--runtime", type=Path, default=Path(__file__).resolve().parents[1] / "runtime" / "lulu-voice")
+    parser.add_argument("--pitch-semitones", type=float, default=-2)
     args = parser.parse_args()
-    engine = VoiceEngine(args.runtime.resolve())
+    if not -12 <= args.pitch_semitones <= 12:
+        parser.error("--pitch-semitones must be between -12 and 12")
+    engine = VoiceEngine(args.runtime.resolve(), args.pitch_semitones)
     server = ThreadingHTTPServer(("127.0.0.1", args.port), create_handler(engine))
     threading.Thread(target=engine.load, daemon=True).start()
-    print(f"Lulu voice listening on 127.0.0.1:{args.port}", flush=True)
+    print(f"Shi Xiaolu voice listening on 127.0.0.1:{args.port}", flush=True)
     try:
         server.serve_forever()
     except KeyboardInterrupt:

diff --git a/test/lulu-voice-service.test.py b/test/lulu-voice-service.test.py
@@ -12,6 +12,19 @@ spec = importlib.util.spec_from_file_location("lulu_voice", Path(__file__).resol
 voice = importlib.util.module_from_spec(spec)
 spec.loader.exec_module(voice)
 
+@unittest.skipUnless(importlib.util.find_spec('numpy') and importlib.util.find_spec('librosa'), 'Requires optional local voice audio dependencies')
+class VoicePitchTests(unittest.TestCase):
+    def test_lower_pitch_preserves_duration_and_avoids_clipping(self):
+        import numpy as np
+        rate = 24000
+        samples = (.8 * np.sin(2 * np.pi * 440 * np.arange(rate) / rate)).astype(np.float32)
+        shifted = voice.adjust_voice_pitch(samples, rate, -2)
+        self.assertEqual(len(shifted), len(samples))
+        self.assertGreater(float(np.sqrt(np.mean(shifted**2))), .1)
+        self.assertLessEqual(float(np.max(np.abs(shifted))), .98001)
+        frequency = np.fft.rfftfreq(len(shifted), 1 / rate)[np.argmax(np.abs(np.fft.rfft(shifted)))]
+        self.assertAlmostEqual(frequency, 440 * 2**(-2/12), delta=2)
+
 class VoiceHTTPTests(unittest.TestCase):
     @classmethod
     def setUpClass(cls):

diff --git a/README.md b/README.md
@@ -47,11 +47,11 @@
 
 同一套题重复提交、修改答案后再提交或切换界面语言，都不会再计为独立成绩或反复升降难度。反馈生成或难度决定校验失败时，保留之前的记录和难度，提示重新提交；不会以猜测的结果替代。数据按学习会话保存，其他访问者不会影响你的难度。
 
-## 噜噜数字角色
+## 师小噜数字角色
 
-页面右下角的噜噜使用用户提供的角色图，点击可打开独立导览对话框。可介绍当前区域、逐步参观六个学习模块，也可输入问题或使用浏览器语音转写。导览和互动均由电脑后端调用模型生成，基于实际功能清单、当前区域及学习记录回答；对话与原课程聊天分开保存，动作只能打开已有学习页面。切换语言后界面、回答和朗读语言保持一致。
+页面右下角的师小噜使用用户提供的角色图，并加入重庆师范大学校徽与姓名胸牌、黑色博士帽和金色流苏，点击可打开独立导览对话框。可介绍当前区域、逐步参观六个学习模块，也可输入问题或使用浏览器语音转写。导览和互动均由电脑后端调用模型生成，基于实际功能清单、当前区域及学习记录回答；对话与原课程聊天分开保存，动作只能打开已有学习页面。切换语言后界面、回答和朗读语言保持一致。
 
-朗读支持开关、重播和停止，播放时显示角色动画。参考音色由本机 Qwen3-TTS 0.6B Base 根据用户提供的录音生成，使用合成语音，不是原录音回放，也不保证完全复现原声。文字回答仍由现有教学模型生成。语音暂不可用时保留文字并提示，可主动选择设备卡通音色；不会静默替换。麦克风仅在用户点击后启动，不支持时仍可文字互动。
+朗读支持开关、重播和停止，播放时显示角色动画。参考音色由本机 Qwen3-TTS 0.6B Base 根据用户提供的录音生成，输出默认降低两个半音并保持时长，使音色略低沉。使用合成语音，不是原录音回放，也不保证完全复现原声。文字回答仍由现有教学模型生成。语音暂不可用时保留文字并提示，可主动选择设备卡通音色；不会静默替换。麦克风仅在用户点击后启动，不支持时仍可文字互动。
 
 语音首次安装使用 `scripts/setup-lulu-voice.ps1`，指定原始音频和 Python 路径；需要 NVIDIA CUDA 显卡及约 6 GB 下载空间。录音片段、参考转写、模型和独立 Python 环境仅存放在 Git 忽略的 `runtime/lulu-voice/`，不发布到网页或仓库。语音服务由 `scripts/lulu-voice-service.py` 监听本机 4187 端口；网页通过电脑后端的 `/api/lulu/voice` 获取当前学习会话中已生成回答的音频。监测记录保留对应文字和音频长度，不保存音频字节。安装完成后，电脑后端启动脚本会一并管理语音服务。
 
